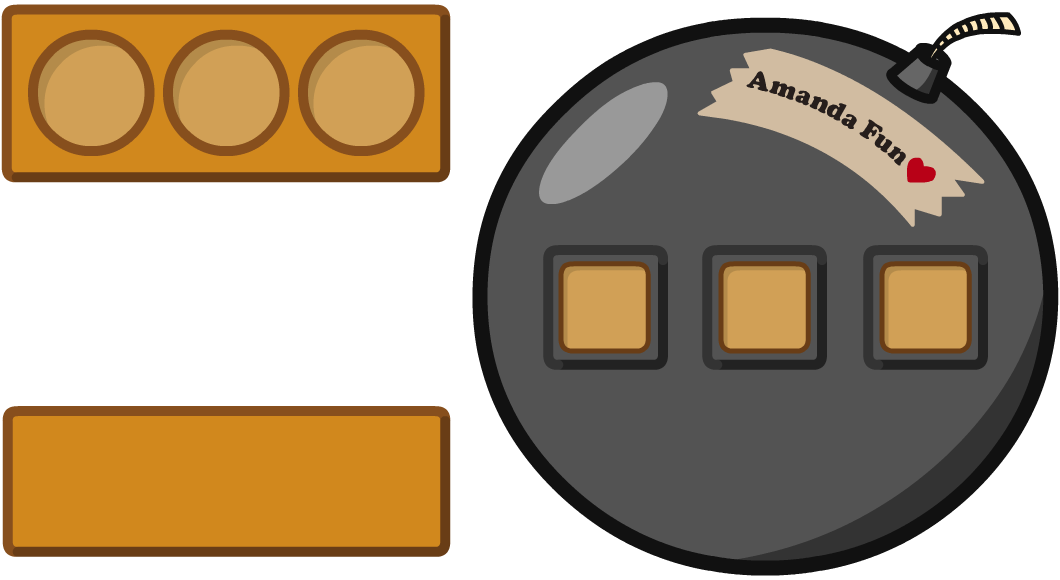
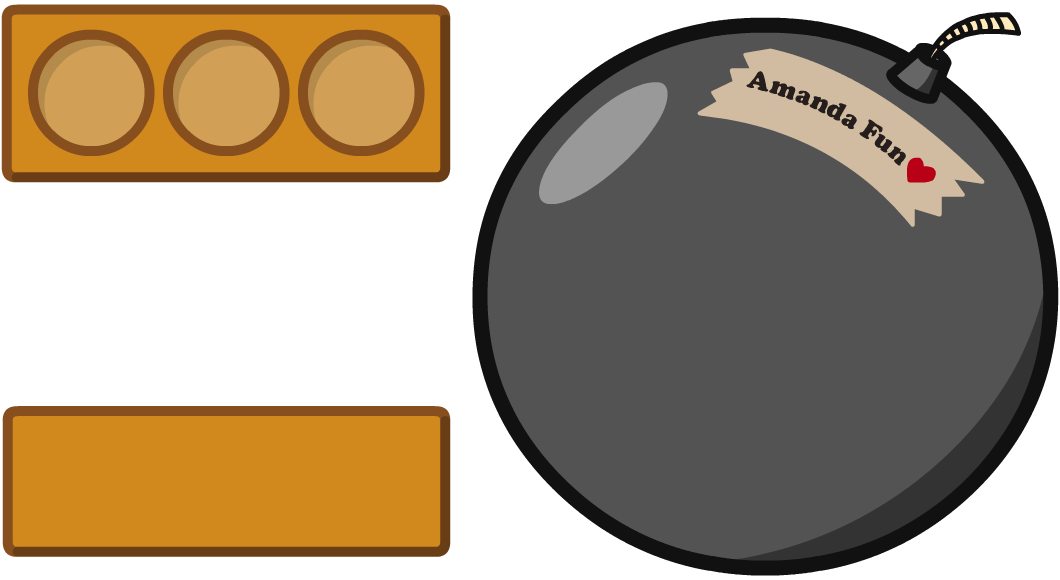
timer done

Changed region(s): [[0.4981, 0.4034, 0.7783, 0.6517], [0.8094, 0.4034, 0.934, 0.6517]]

diff --git a/src/components/GameMain.js b/src/components/GameMain.js
@@ -1,12 +1,103 @@
-import React from 'react';
-require.context ( '../../public/assets/', true, /\.png$/ );
+import React, { useContext, useEffect } from 'react';
+import { store } from './store.js';
+import gameLayer0 from '../../public/assets/game-layer-0.png';
+import gameLayer0Left from '../../public/assets/game-layer-0-left.png';
+import gameLayer0Center from '../../public/assets/game-layer-0-center.png';
+import gameLayer0Right from '../../public/assets/game-layer-0-right.png';
+import gameLayer1 from '../../public/assets/game-layer-1.png';
+import key1 from '../../public/assets/key1.png';
+import key2 from '../../public/assets/key2.png';
+import key3 from '../../public/assets/key3.png';
+import key4 from '../../public/assets/key4.png';
+
 
 const GameMain = () => {
+
+  const globalState = useContext(store);
+  const { dispatch } = globalState;
+  const difficulty = globalState.state.difficulty;
+  let gameTimer = 0;
+  let intervalTimer = 0;
+
+  const initTimer = (diffLevel) => {
+    switch (diffLevel) {
+      case 'easy':
+        gameTimer = 1200;
+        break;
+      case 'normal':
+        gameTimer = 900;
+        break;
+      case 'hard':
+        gameTimer = 600;
+        break;
+    }
+    displayTime();
+    countDown();
+  }
+
+  const displayTime = (time) => {
+    const timerDiv = document.querySelector('.counter');
+    const minValue = Math.floor((gameTimer/60) % 60);
+    const secValue = Math.floor(gameTimer % 60);
+
+    const min = minValue < 10 ? `0${minValue}` : minValue;
+    const sec = secValue < 10 ? `0${secValue}` : secValue;
+
+    timerDiv.innerHTML = `${min}:${sec}`;
+  }
+
+  const countDown = () => {
+    intervalTimer = setInterval(() => {
+      if(gameTimer > 0) {
+        gameTimer --;
+        displayTime();
+      } else {
+        clearInterval(intervalTimer);
+        dispatch({type: 'pageSwap', payload: 'lose'})
+      }
+    }, 1000)
+  }
+
+  useEffect(() => {
+    initTimer(difficulty);
+  }, [gameTimer]);
+
   return (
     <article>
       <section className="game-box">
-        <div>
-          
+        <div className="game-content">
+          <div><img src={gameLayer0} /></div>
+          <div><img src={gameLayer0Left} /></div>
+          <div><img src={gameLayer0Center} /></div>
+          <div><img src={gameLayer0Right} /></div>
+          <div><img src={gameLayer1} /></div>
+          <ul className="game-bases">
+            <li className="hide"></li>
+            <li className="hide"></li>
+            <li className="hide"></li>
+          </ul>
+          <ul className="game-keys">
+            <li className="initial-pos-key1 hide"><img src={key1} /></li>
+            <li className="initial-pos-key2 hide"><img src={key2} /></li>
+            <li className="initial-pos-key3 hide"><img src={key3} /></li>
+          </ul>
+          <ul className="game-buttons">
+            <li></li>
+            <li></li>
+            <li></li>
+          </ul>
+          <section className="counter-box">
+            <div>
+              <h4>Countdown Timer</h4>
+              <p className="counter"></p>
+            </div>
+            <hr></hr>
+            <form>
+              <h4>Disengage Code</h4>
+              <input maxLength="4" required></input>
+              <input type="submit" value="Submit" />
+            </form>
+          </section>
         </div>
       </section>
     </article>

diff --git a/src/styles/game-main.scss b/src/styles/game-main.scss
@@ -7,8 +7,143 @@
   padding: 0.5vw;
 }
 
-.game-box > div {
+.game-content {
+  position: relative;
+  height: 32vw;
   border: 1vw solid $site-black;
   border-radius: 1vw;
   background-image: url('../../public/assets/game-bg-pattern.png');
+}
+
+.game-content > div, .game-content ul, .counter-box {
+  position: absolute;
+}
+
+.game-content > div {
+  padding: 1vw;
+}
+
+.game-content img {
+  width: 100%;
+}
+
+.game-keys {
+  display: flex;
+  left: 3vw;
+  top: 3vw;
+  width: 20vw;
+  justify-content: space-between;
+}
+
+.game-keys li {
+  padding: 0.2vw;
+  transition: all 600ms ease-in-out;
+}
+
+.game-keys li:nth-child(2) {
+  margin: 0 1.5vw 0 1.5vw;
+}
+
+.game-buttons, .game-bases {
+  display: flex;
+  justify-content: space-between;
+  left: 30vw;
+  top: 15vw;
+  width: 22vw;
+}
+
+.game-buttons li, .game-bases li {
+  padding: 0.5vw;
+  width: 5vw;
+  height: 5vw;
+  background-size: cover;
+}
+
+.game-bases li {
+  background-image: url('../../public/assets/game-button-base.png');
+}
+
+.game-buttons li{
+  background-image: url('../../public/assets/game-button.png');
+  cursor: pointer;
+}
+
+.initial-pos-key1 {
+  transform: translate(27.2vw, 12.3vw);
+}
+
+.initial-pos-key2 {
+  transform: translate(28vw, 12.3vw);
+}
+
+.initial-pos-key3 {
+  transform: translate(29vw, 12.3vw);
+}
+
+.game-buttons li:hover {
+  background-image: url('../../public/assets/game-button-hover.png');
+}
+
+.game-buttons li:active {
+  background-image: url('../../public/assets/game-button-click.png');
+}
+
+.counter-box {
+  display: flex;
+  justify-content: space-around;
+  align-items: center;
+  // outline: 1px solid red;
+  width: 21vw;
+  height: 4vw;
+  left: 2.3vw;
+  top: 24vw;
+}
+
+.counter-box hr {
+  width: 0.1vw;
+  height: 100%;
+  border: 0;
+  border-left: 0.1vw dotted $site-black;
+}
+
+.counter-box div:first-child {
+  font-family: $title-font;
+  text-align: center;
+}
+
+.counter-box p {
+  font-size: 2vw;
+}
+
+.counter-box form {
+  text-align: center;
+  font-family: $title-font;
+}
+
+.counter-box form h4 {
+  margin-bottom: 0.5vw;
+}
+
+.counter-box form input:first-of-type {
+  font-size: 1vw;
+  width: 4vw;
+  border: 0;
+  border-radius: 0.2vw;
+  vertical-align: middle;
+  margin-right: 1vw;
+}
+
+.counter-box form input:last-of-type {
+  background-color: $site-red-drk;
+  border: 10px solid $site-red-drk;
+  border-radius: 10px;
+  font-family: $title-font;
+  color: white;
+  transition: all 150ms ease-in-out;
+  cursor: pointer;
+}
+
+.counter-box form input:last-of-type:hover {
+  color: $site-red;
+  transform: scale(1.1);
 }

diff --git a/src/styles/game-start.scss b/src/styles/game-start.scss
@@ -9,7 +9,7 @@
   width: 100%;
 }
 
-.game-buttons {
+.menu-buttons {
   width: 45vw;
   text-align: center;
   margin: 6vw auto;
@@ -17,7 +17,7 @@
   justify-content: space-around;
 }
 
-.game-buttons > div {
+.menu-buttons > div {
   margin: 0 1vw 0 1vw;
   background-color: $site-red-drk;
   border: 1vw solid $site-red-drk;
@@ -26,7 +26,7 @@
   cursor: pointer;
 }
 
-.game-buttons button {
+.menu-buttons button {
   color: white;
   font-family: $title-font;
   font-size: 1vw;
@@ -37,11 +37,11 @@
   cursor: pointer;
 }
 
-.game-buttons > div:hover {
+.menu-buttons > div:hover {
   transform: scale(1.1,1.1);
 }
 
-.game-buttons > div:hover > button {
+.menu-buttons > div:hover > button {
   color: $site-red;
 }
 

diff --git a/src/components/store.js b/src/components/store.js
@@ -4,7 +4,8 @@ const initialState = {
   page: 'main',
   player: '',
   difficulty: 'normal',
-  isSubmitted: false
+  isSubmitted: false,
+  eventsStopped: false
 };
 
 const store = createContext(initialState);
@@ -21,6 +22,8 @@ const StateProvider = ( { children } ) => {
         return {...state, player: action.payload};
       case 'submit':
         return {...state, isSubmitted: action.payload};
+      case 'stop':
+        return {...state, eventsStopped: action.payload};
       default:
         throw new Error();
     };

diff --git a/src/components/PlayerForm.js b/src/components/PlayerForm.js
@@ -28,7 +28,7 @@ const PlayerForm = () => {
       <form onSubmit={handleSubmit}>
         <ul>
           <li><label htmlFor="name" className="title-font">PLAYER NAME:</label></li>
-          <li><input type="text" id="name" autoComplete="off" required="required" maxLength="20" autoFocus="autofocus"
+          <li><input type="text" id="name" autoComplete="off" required maxLength="20" autoFocus="autofocus"
               value={player}
               onChange={handlePlayer}/>
           </li>

diff --git a/src/components/GameStart.js b/src/components/GameStart.js
@@ -25,7 +25,7 @@ const GameStart = () => {
       <h1 className="none">Blow Your Mind - Web Game</h1>
       <div className="logo"><img src={logo} /></div>
       <PlayerForm />
-      <section className="game-buttons">
+      <section className="menu-buttons">
         <div onClick={handleGameStart}><button>START GAME</button></div>        
         <div><button>LEADERBOARD</button></div>
         <div onClick={handleHowTo}><button>HOW TO PLAY</button></div>

diff --git a/public/index.html b/public/index.html
@@ -11,5 +11,13 @@
 
   <body>
     <div id="root"></div>
+    <section id="image-preload" style="display: none">
+      <img src="public/assets/game-button-click.png"/>
+      <img src="public/assets/game-button-hover.png"/>
+      <img src="public/assets/key1.png"/>
+      <img src="public/assets/key2.png"/>
+      <img src="public/assets/key3.png"/>
+      <img src="public/assets/key4.png"/>
+    </section>
   </body>
 </html>

diff --git a/src/styles/index.scss b/src/styles/index.scss
@@ -21,12 +21,16 @@ body {
   background-image: url('../../public/assets/bgpattern.jpg');
   background-size: contain;
   font-family: $base-font;
+  font-size: 1vw;
 }
 
-button:focus {
+*:focus {
   outline: 0;
 }
 
+.hide {
+  opacity: 0;
+}
 
 .title-font {
   font-family: $title-font;
@@ -35,4 +39,3 @@ button:focus {
 .none {
   display: none;
 }
-
